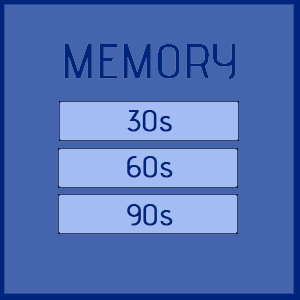
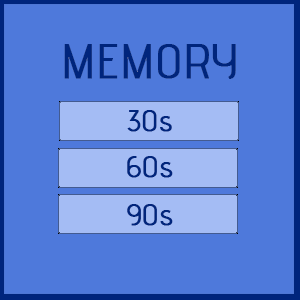
Update view

diff --git a/index.html b/index.html
@@ -265,7 +265,7 @@
             w najszybszym czasie. <br> </p>
     </div>
     <div id="menu">
-        <img src="menu.png" alt="Error" usemap="#Map" id="img_menu" />
+        <img src="img/menu.png" alt="Error" usemap="#Map" id="img_menu" />
         <map name="Map" id="Map">
             <area alt="30" title="30" onclick="init(30)" shape="rect" coords="61,102,239,140" />
             <area alt="60" title="60" onclick="init(60)" shape="rect" coords="60,149,238,187" />

diff --git a/style.css b/style.css
@@ -10,6 +10,7 @@
 
 body {
     font-family: 'Advent Pro', sans-serif;
+    background-color: #A4BCF4;
 }
 
 #menu {
@@ -23,6 +24,7 @@ body {
 }
 
 #p_menu {
+    color: #00257C;
     font-size: 30px;
     text-align: center;
 }
